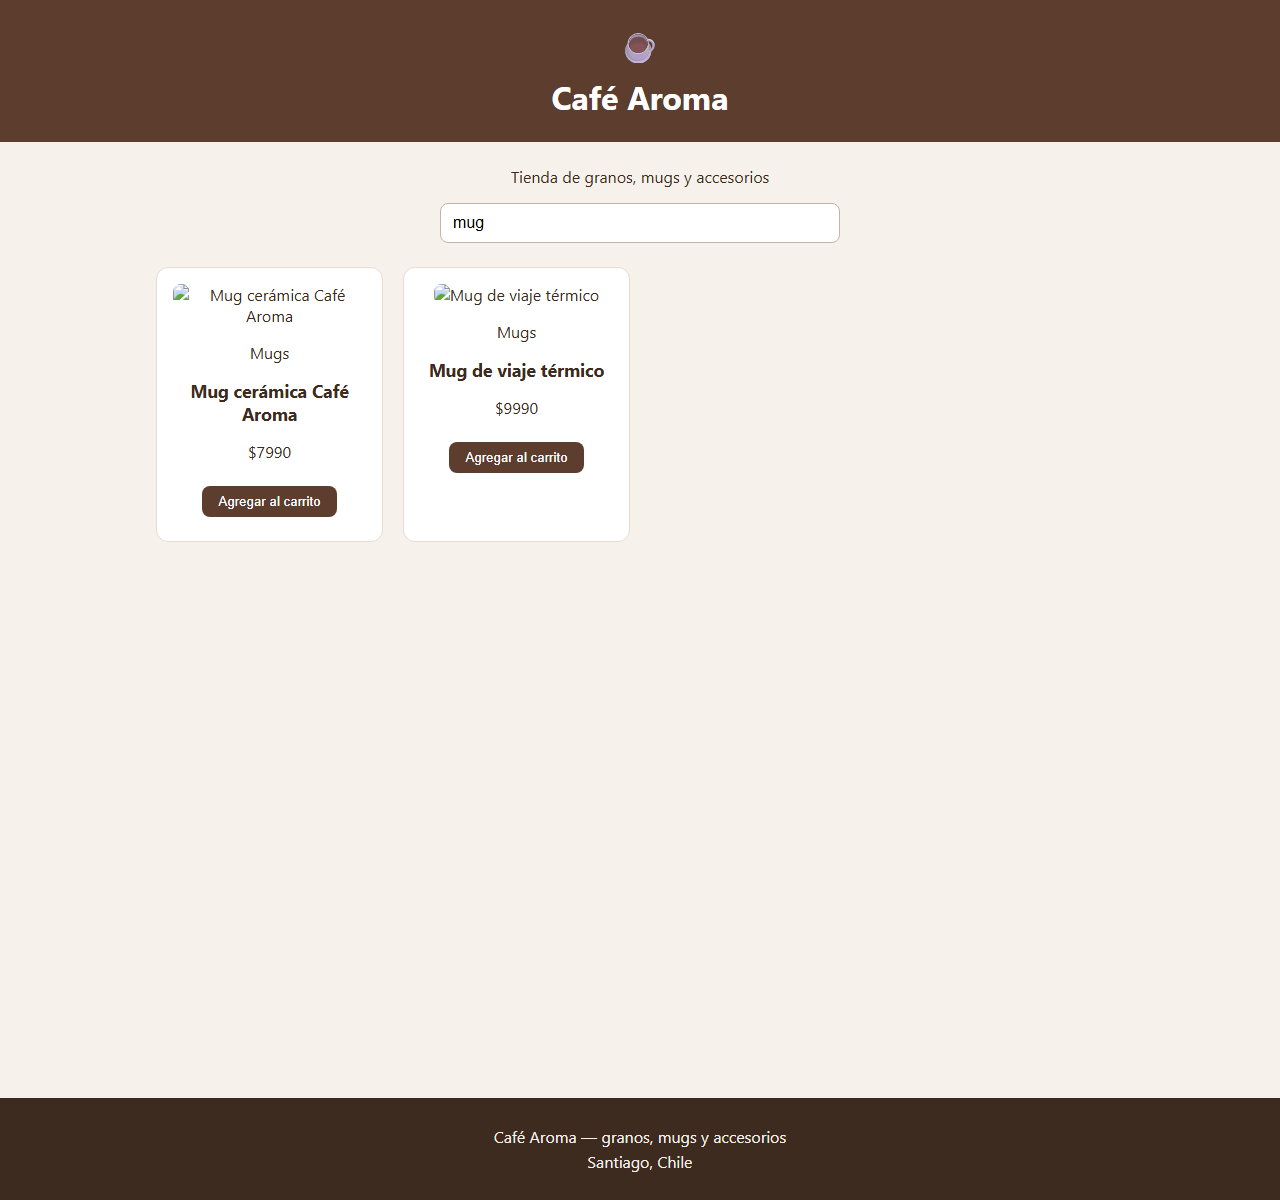
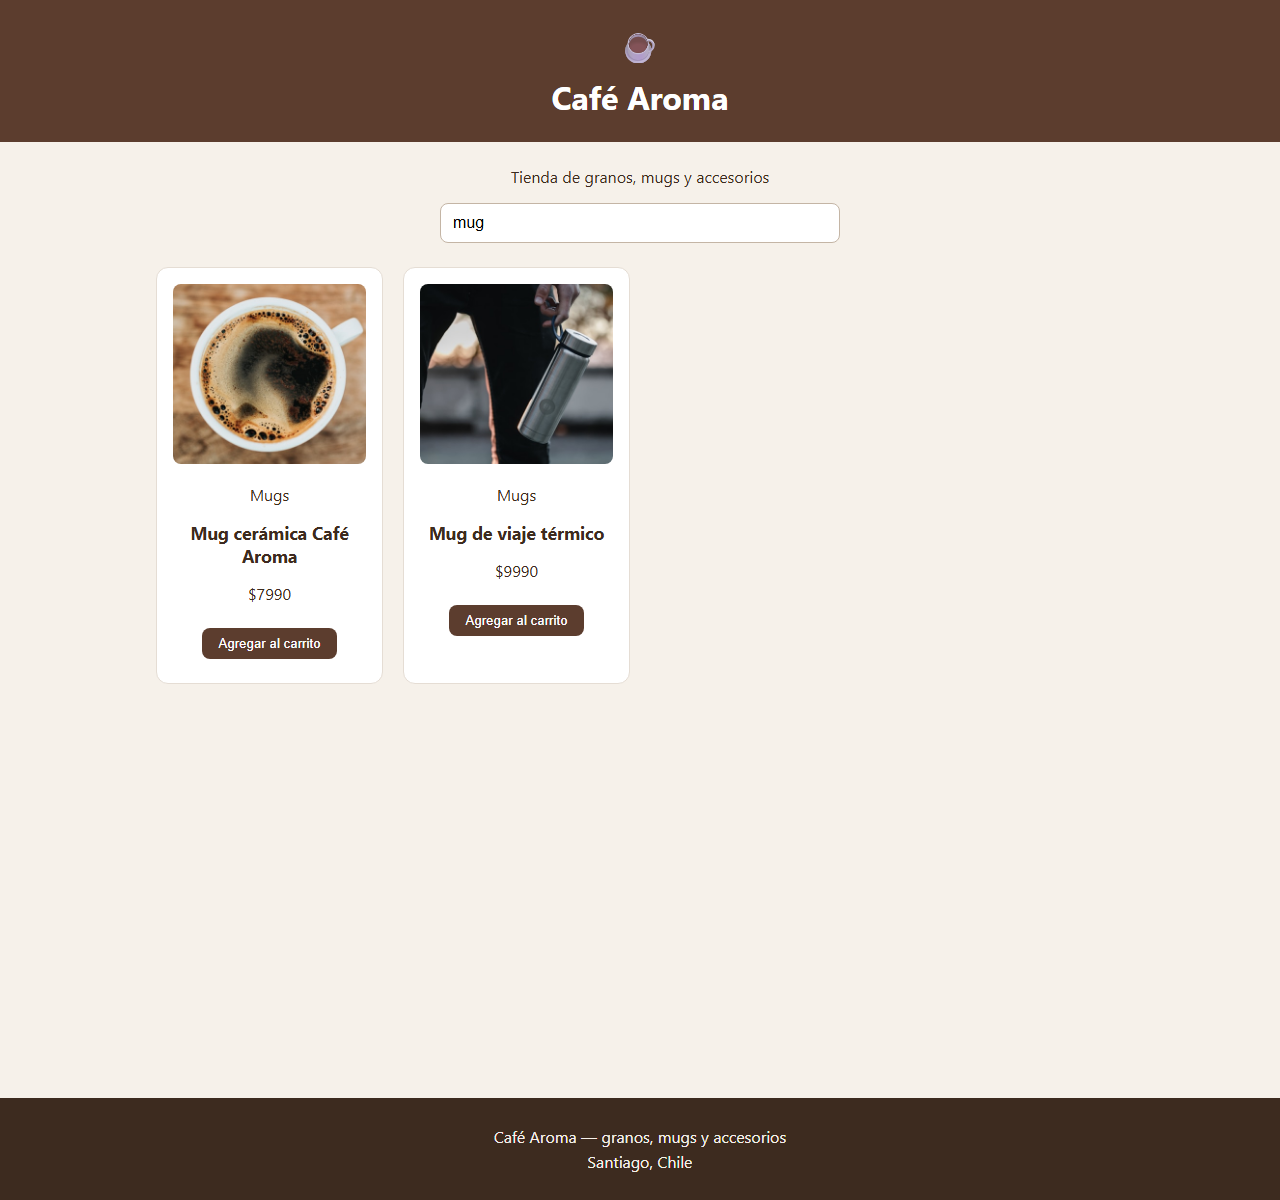
Corregir las fotos de los mugs que no cargaban.

Changed region(s): [[0.125, 0.2158, 0.5, 0.555], [0.3125, 0.4317, 0.4688, 0.555]]

diff --git a/src/data/products.js b/src/data/products.js
@@ -18,14 +18,14 @@ export const products = [
     name: 'Mug cerámica Café Aroma',
     price: 7990,
     category: 'Mugs',
-    image: 'https://images.unsplash.com/photo-1514228742587-6b15571fec09?w=400&h=400&fit=crop',
+    image: 'https://images.unsplash.com/photo-1514432324607-a09d9b4aefdd?w=400&h=400&fit=crop',
   },
   {
     id: 4,
     name: 'Mug de viaje térmico',
     price: 9990,
     category: 'Mugs',
-    image: 'https://images.unsplash.com/photo-1514228742587-6b15571fdc0c?w=400&h=400&fit=crop',
+    image: 'https://images.unsplash.com/photo-1605539585404-a846f1193d19?w=400&h=400&fit=crop',
   },
   {
     id: 5,
